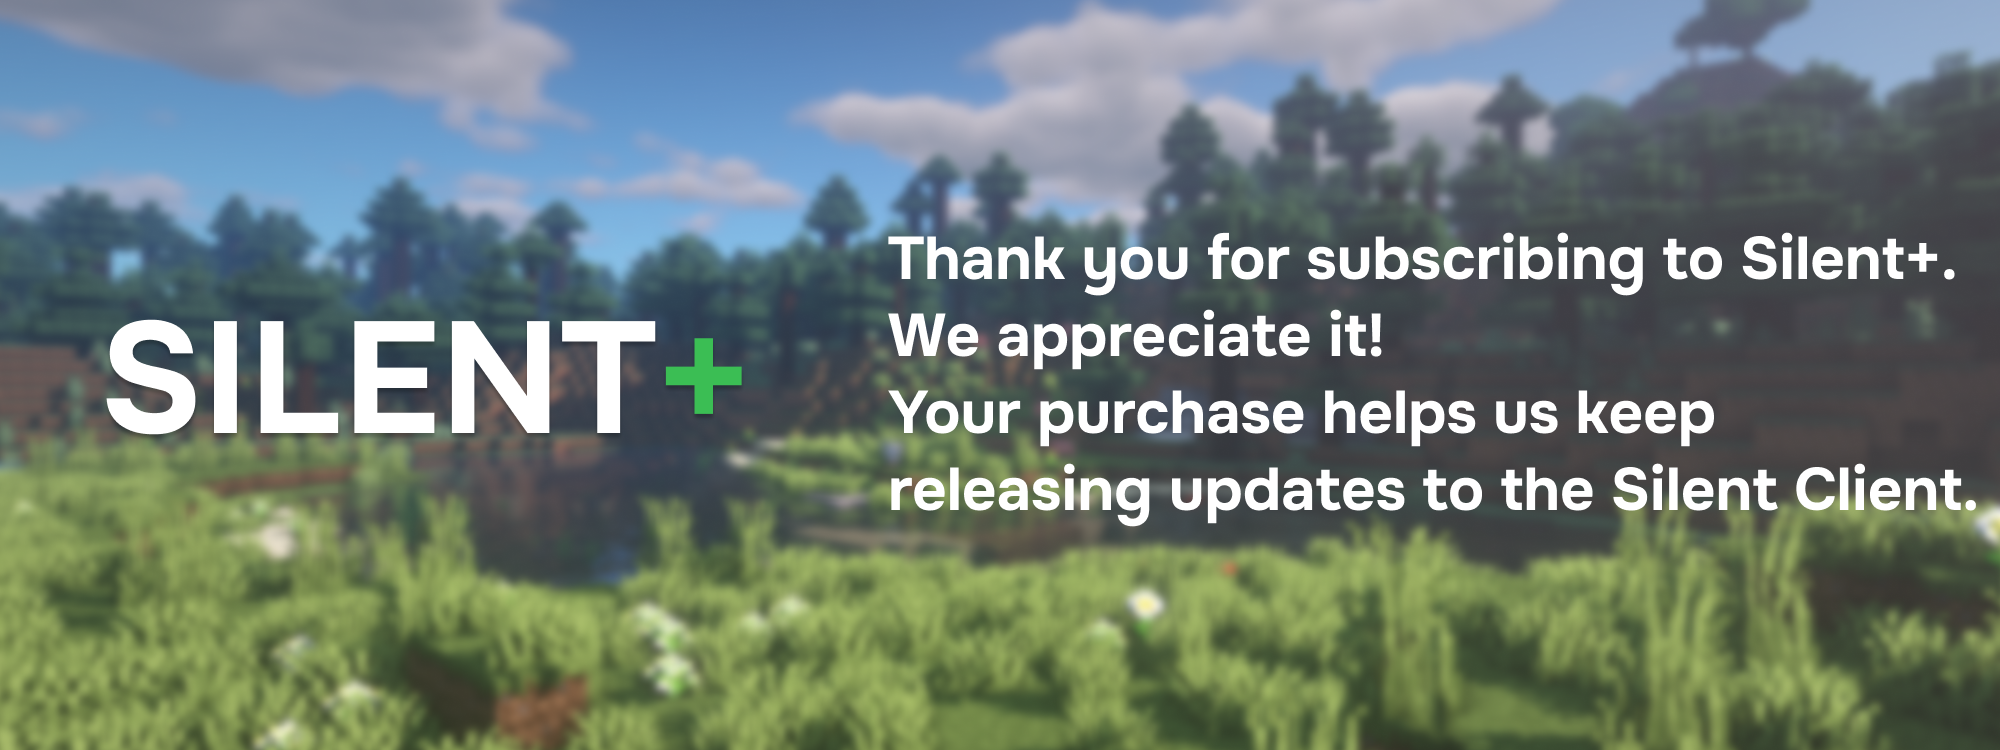
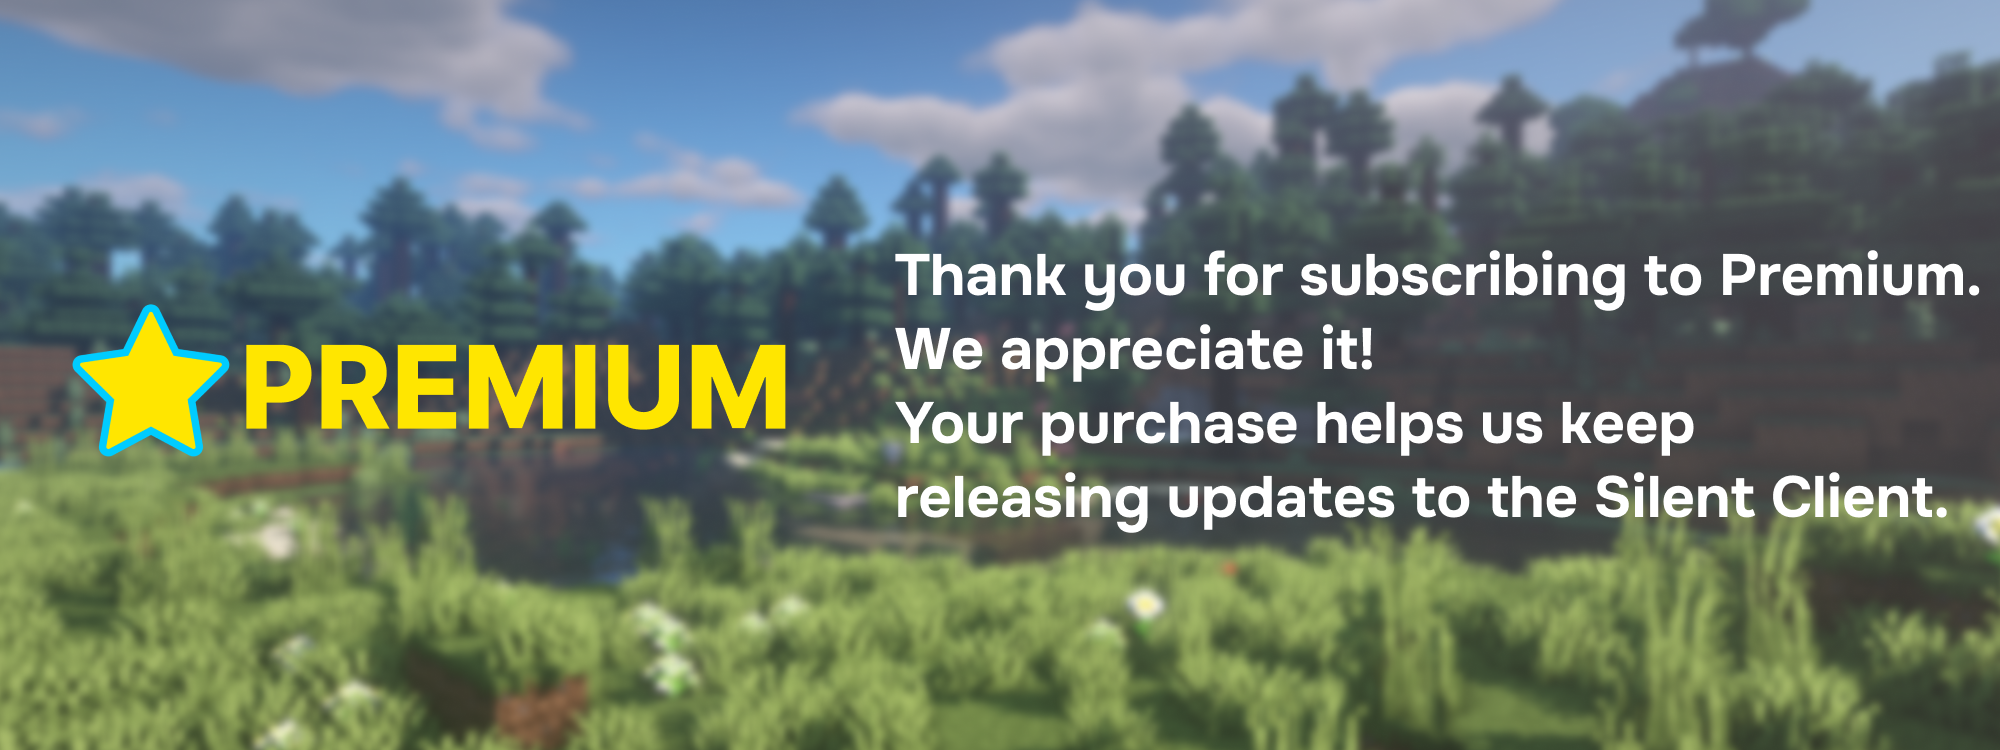
premium

Changed region(s): [[0.434, 0.3067, 0.992, 0.7053], [0.031, 0.3987, 0.403, 0.6133]]

diff --git a/src/pages/Play.tsx b/src/pages/Play.tsx
@@ -472,7 +472,7 @@ function Play({ news, versionIndex }: { news: News[]; versionIndex: number }) {
 							onClick={() =>
 								window
 									.require("electron")
-									.shell.openExternal("https://store.silentclient.net/plus")
+									.shell.openExternal("https://store.silentclient.net/premium")
 							}
 						>
 							<Image
